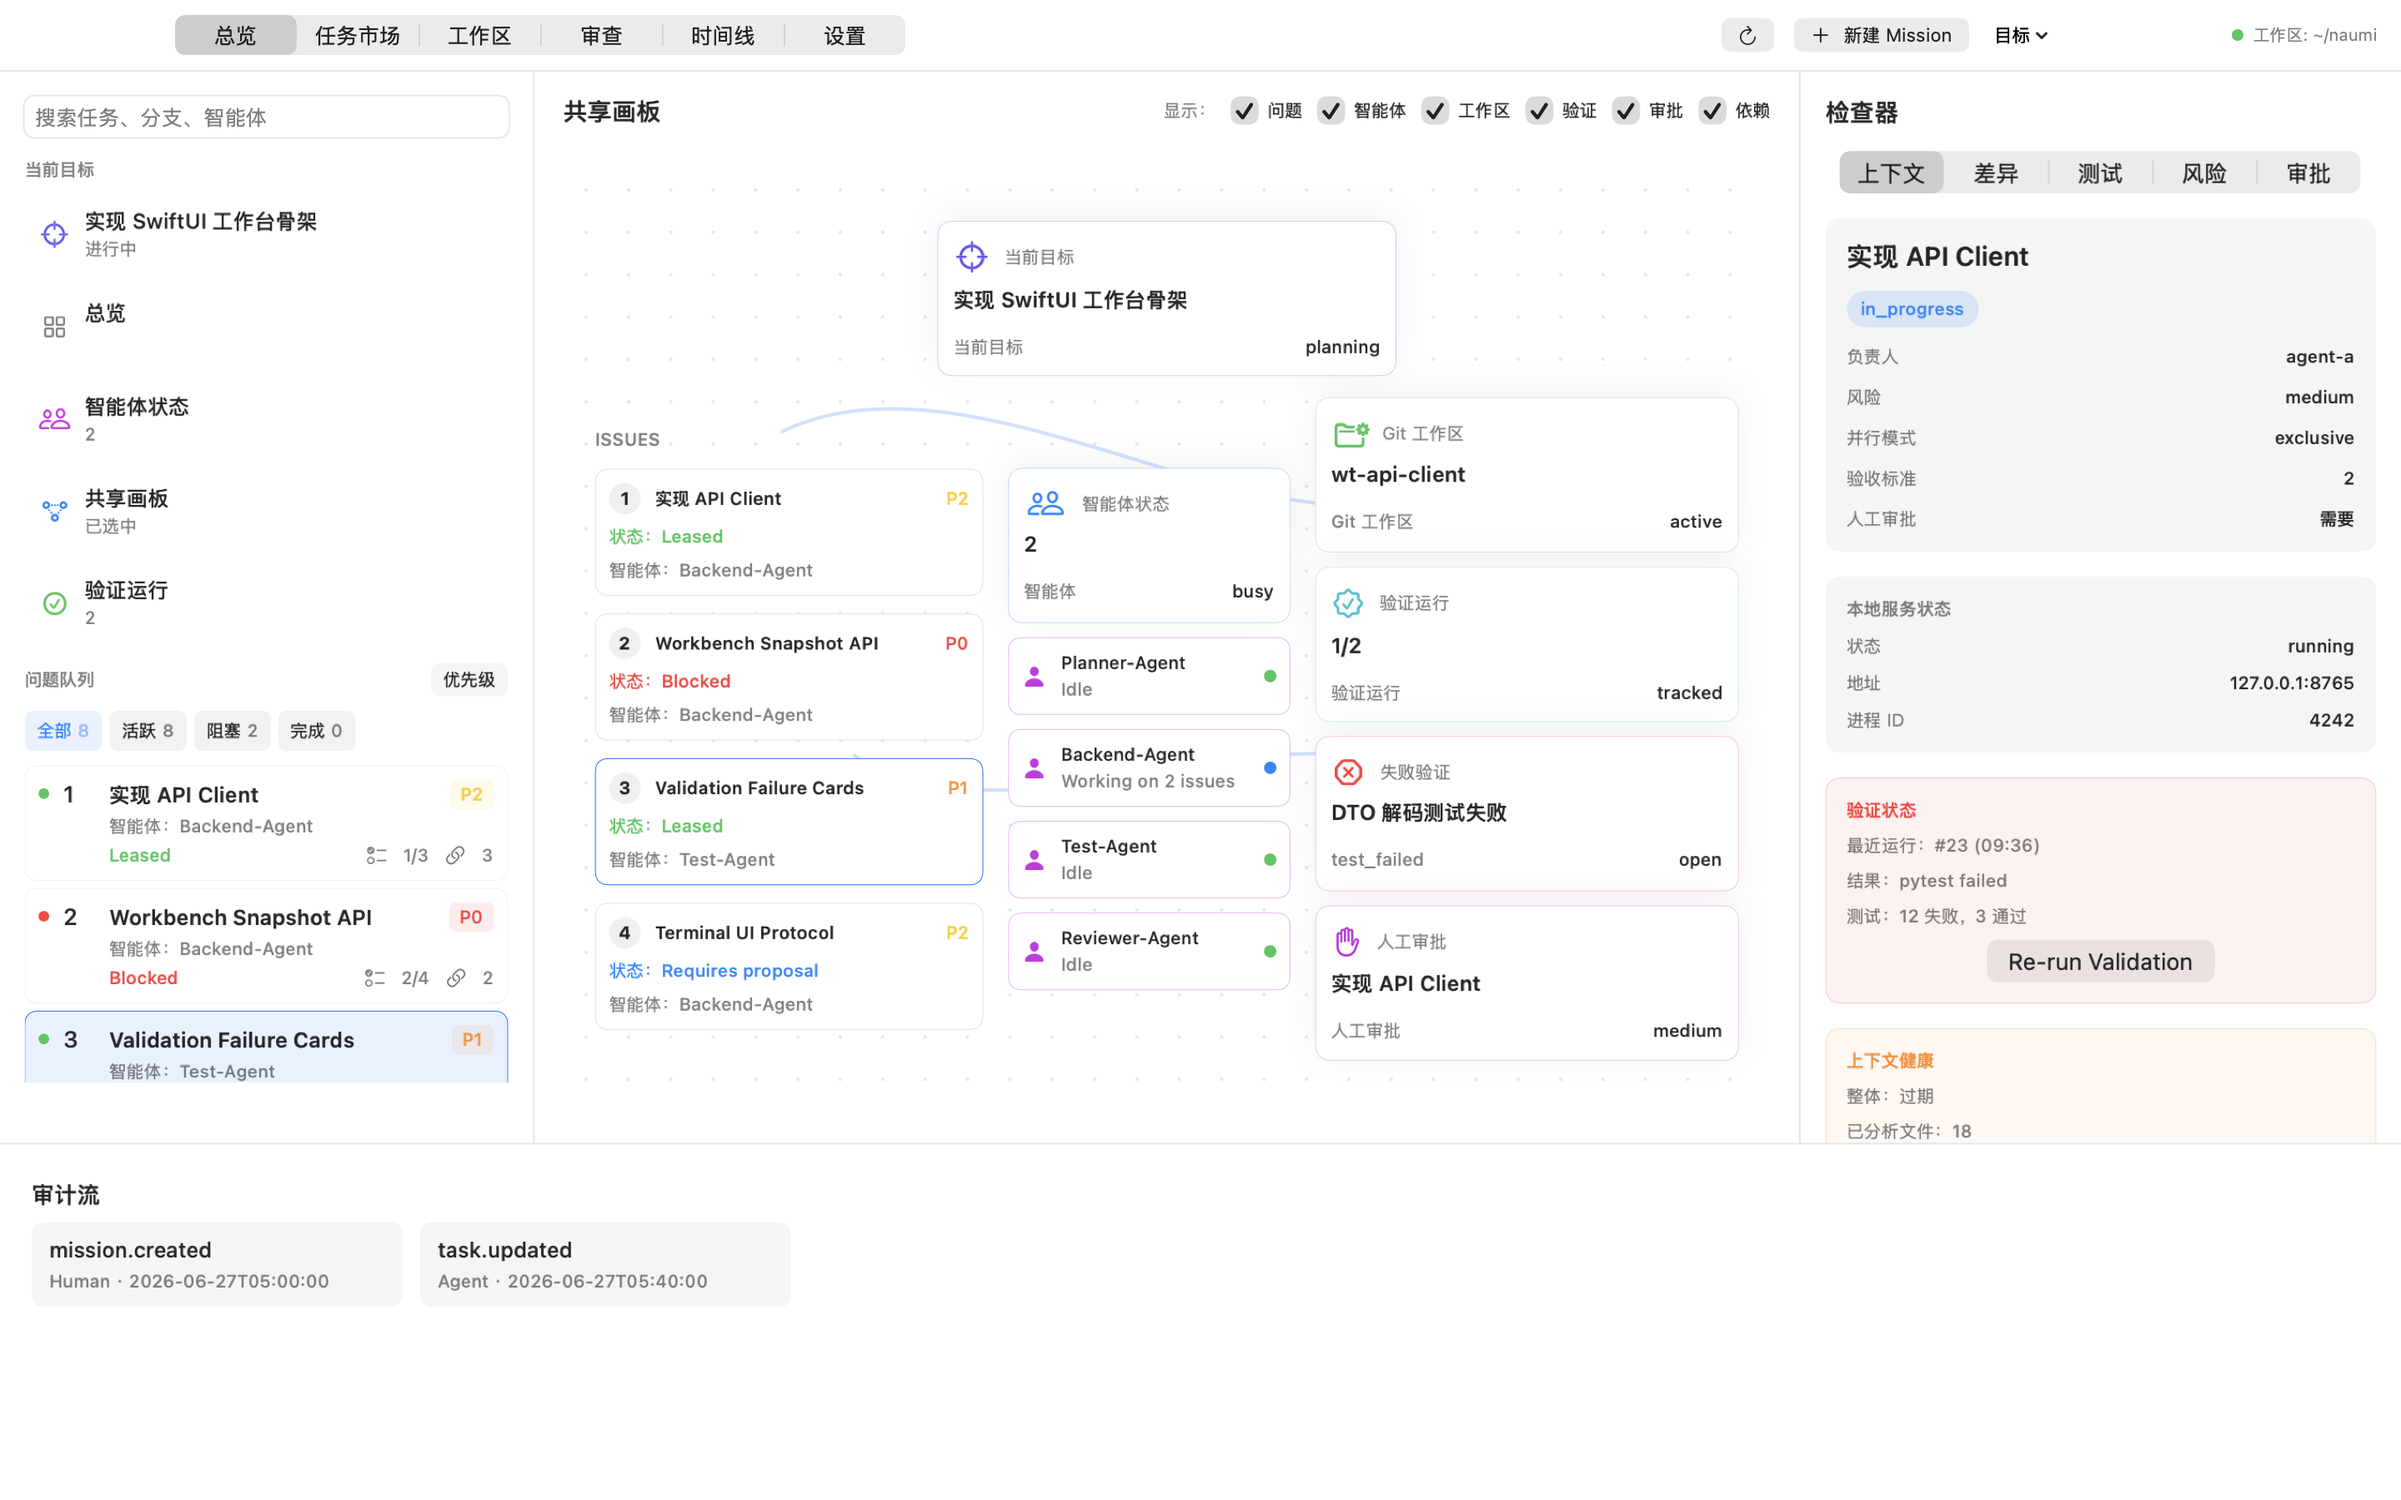
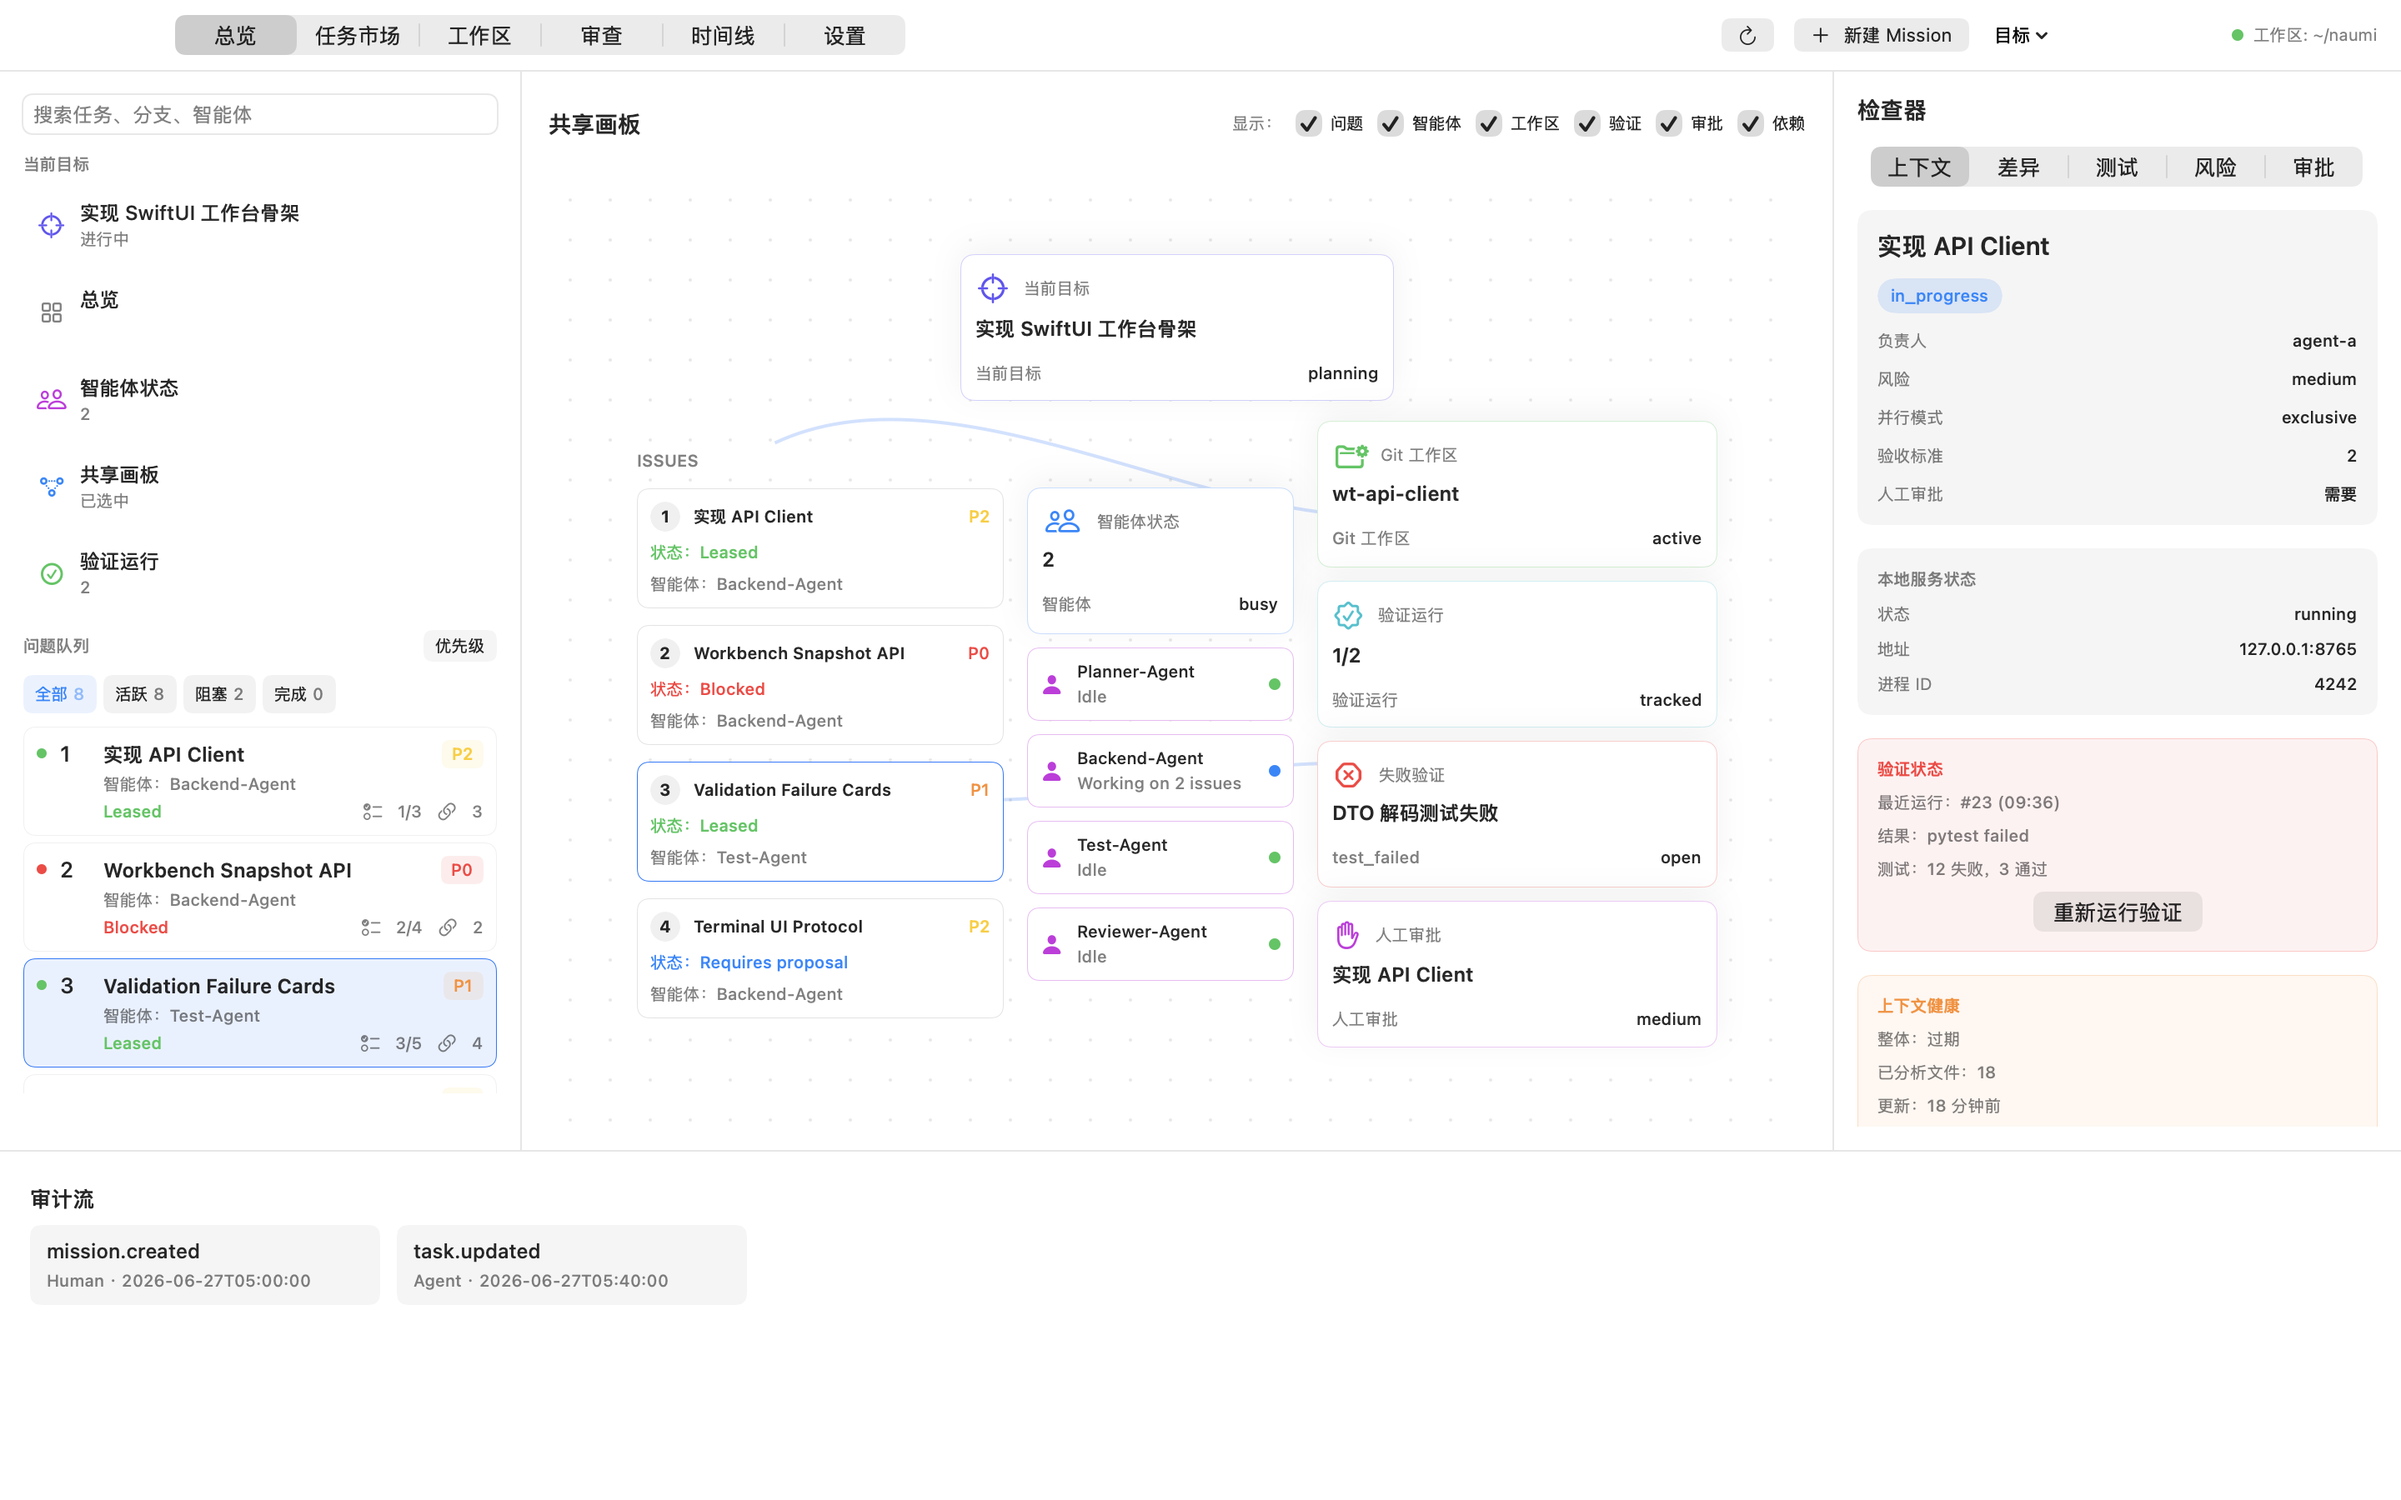
fix: stabilize mac workbench scaled layout

diff --git a/apps/macos/NaumiAgentWorkbench/Tests/NaumiAgentWorkbenchCoreTests/WorkbenchPageLayoutTests.swift b/apps/macos/NaumiAgentWorkbench/Tests/NaumiAgentWorkbenchCoreTests/WorkbenchPageLayoutTests.swift
@@ -16,25 +16,26 @@ struct WorkbenchPageLayoutTests {
         let layout = WorkbenchScaledPageLayout.dashboard
         let size = layout.scaledSize(for: 900)
 
-        #expect(layout.scale(for: 1440) > 1)
+        #expect(layout.scale(for: 1600) > 1)
         #expect(layout.scale(for: 900) < 1)
         #expect(size.width <= 900)
         #expect(size.height < layout.baseHeight)
     }
 
-    @Test func scaledLayoutUsesAvailableSizeSoThreeColumnsStayVisible() {
+    @Test func scaledLayoutUsesWindowWidthSoHeightDoesNotChangeColumnScale() {
         let layout = WorkbenchScaledPageLayout.dashboard
 
-        let native = layout.scaledSize(for: CGSize(width: 1360, height: 720))
-        let wideButShort = layout.scaledSize(for: CGSize(width: 2048, height: 900))
+        let native = layout.scaledSize(for: CGSize(width: layout.baseWidth, height: layout.baseHeight))
+        let sameWidthTall = layout.scaledSize(for: CGSize(width: 1180, height: 900))
+        let sameWidthShort = layout.scaledSize(for: CGSize(width: 1180, height: 620))
         let narrow = layout.scaledSize(for: CGSize(width: 900, height: 620))
 
         #expect(abs(native.width - layout.baseWidth) < 0.001)
         #expect(abs(native.height - layout.baseHeight) < 0.001)
-        #expect(wideButShort.width <= 2048)
-        #expect(wideButShort.height <= 900)
+        #expect(abs(sameWidthTall.width - sameWidthShort.width) < 0.001)
+        #expect(abs(sameWidthTall.height - sameWidthShort.height) < 0.001)
         #expect(abs(narrow.width - 900) < 0.001)
-        #expect(narrow.height < 620)
+        #expect(narrow.height > 620)
     }
 
     @Test func scaledViewportKeepsTheFullWorkbenchFitted() {
@@ -50,7 +51,7 @@ struct WorkbenchPageLayoutTests {
         #expect(compact.showsVerticalScroll == false)
         #expect(wide.showsVerticalScroll == false)
         #expect(wideButShort.scaledSize.width <= wideButShort.containerSize.width)
-        #expect(wideButShort.scaledSize.height <= wideButShort.containerSize.height)
-        #expect(wideButShort.showsVerticalScroll == false)
+        #expect(wideButShort.scaledSize.height > wideButShort.containerSize.height)
+        #expect(wideButShort.showsVerticalScroll == true)
     }
 }

diff --git a/apps/macos/NaumiAgentWorkbench/Sources/NaumiAgentWorkbenchCore/Features/Dashboard/DashboardView.swift b/apps/macos/NaumiAgentWorkbench/Sources/NaumiAgentWorkbenchCore/Features/Dashboard/DashboardView.swift
@@ -70,21 +70,27 @@ public struct DashboardView: View {
         let auditTrailHeight: CGFloat = 112
         let dividerHeight: CGFloat = 1
         let mainHeight = CGFloat(WorkbenchScaledPageLayout.dashboard.baseHeight) - auditTrailHeight - dividerHeight
+        let leftRailWidth: CGFloat = 312
+        let inspectorWidth: CGFloat = 340
+        let sharedCanvasWidth = CGFloat(WorkbenchScaledPageLayout.dashboard.baseWidth)
+            - leftRailWidth
+            - inspectorWidth
+            - (dividerHeight * 2)
 
         return VStack(spacing: 0) {
             HStack(alignment: .top, spacing: 0) {
                 workbenchLeftRail(presentation: presentation, market: market)
-                    .frame(width: 302)
+                    .frame(width: leftRailWidth)
 
                 Divider()
 
                 sharedCanvas(presentation: presentation, market: market)
-                    .frame(width: 716, height: mainHeight, alignment: .top)
+                    .frame(width: sharedCanvasWidth, height: mainHeight, alignment: .top)
 
                 Divider()
 
                 inspectorPanel(presentation: presentation)
-                    .frame(width: 340, alignment: .top)
+                    .frame(width: inspectorWidth, alignment: .top)
             }
             .frame(height: mainHeight, alignment: .top)
             .clipped()
@@ -361,7 +367,8 @@ public struct DashboardView: View {
                 }
             }
             .padding(.horizontal, 16)
-            .frame(height: 44, alignment: .center)
+            .padding(.top, 8)
+            .frame(height: 54, alignment: .center)
 
             ZStack {
                 dottedCanvasBackground

diff --git a/apps/macos/NaumiAgentWorkbench/Sources/NaumiAgentWorkbenchCore/App/ScaledWorkbenchPage.swift b/apps/macos/NaumiAgentWorkbench/Sources/NaumiAgentWorkbenchCore/App/ScaledWorkbenchPage.swift
@@ -20,24 +20,21 @@ public struct ScaledWorkbenchPage<Content: View>: View {
             let scale = CGFloat(viewport.scale)
 
             ScrollView(.vertical, showsIndicators: viewport.showsVerticalScroll) {
-                ZStack(alignment: .top) {
-                    content
-                        .frame(
-                            width: layout.baseWidth,
-                            height: layout.baseHeight,
-                            alignment: .topLeading
-                        )
-                        .scaleEffect(scale, anchor: .topLeading)
-                        .frame(
-                            width: viewport.scaledSize.width,
-                            height: viewport.scaledSize.height,
-                            alignment: .topLeading
-                        )
-                }
+                content
+                    .frame(
+                        width: layout.baseWidth,
+                        height: layout.baseHeight,
+                        alignment: .topLeading
+                    )
+                    .scaleEffect(scale, anchor: .topLeading)
+                    .frame(
+                        width: viewport.scaledSize.width,
+                        height: viewport.scaledSize.height,
+                        alignment: .topLeading
+                    )
                 .frame(
                     width: viewport.containerSize.width,
-                    height: viewport.containerSize.height,
-                    alignment: .top
+                    alignment: .topLeading
                 )
             }
             .frame(width: proxy.size.width, height: proxy.size.height, alignment: .topLeading)

diff --git a/apps/macos/NaumiAgentWorkbench/Sources/NaumiAgentWorkbenchCore/App/WorkbenchPageLayout.swift b/apps/macos/NaumiAgentWorkbench/Sources/NaumiAgentWorkbenchCore/App/WorkbenchPageLayout.swift
@@ -33,8 +33,8 @@ public struct WorkbenchScaledPageLayout: Equatable, Sendable {
     public let baseWidth: Double
     public let baseHeight: Double
 
-    public static let dashboard = WorkbenchScaledPageLayout(baseWidth: 1360, baseHeight: 720)
-    public static let reviews = WorkbenchScaledPageLayout(baseWidth: 1360, baseHeight: 720)
+    public static let dashboard = WorkbenchScaledPageLayout(baseWidth: 1440, baseHeight: 760)
+    public static let reviews = WorkbenchScaledPageLayout(baseWidth: 1440, baseHeight: 760)
 
     public init(baseWidth: Double, baseHeight: Double) {
         self.baseWidth = baseWidth
@@ -47,10 +47,7 @@ public struct WorkbenchScaledPageLayout: Equatable, Sendable {
     }
 
     public func scale(for availableSize: CGSize) -> Double {
-        guard baseWidth > 0, baseHeight > 0 else { return 1 }
-        let widthScale = availableSize.width / baseWidth
-        let heightScale = availableSize.height / baseHeight
-        return max(0.1, min(widthScale, heightScale))
+        scale(for: availableSize.width)
     }
 
     public func scaledSize(for availableWidth: Double) -> CGSize {
@@ -72,7 +69,7 @@ public struct WorkbenchScaledPageLayout: Equatable, Sendable {
             scaledSize: scaledSize,
             containerSize: CGSize(
                 width: availableSize.width,
-                height: max(availableSize.height, scaledSize.height)
+                height: availableSize.height
             ),
             showsVerticalScroll: scaledSize.height > availableSize.height
         )
